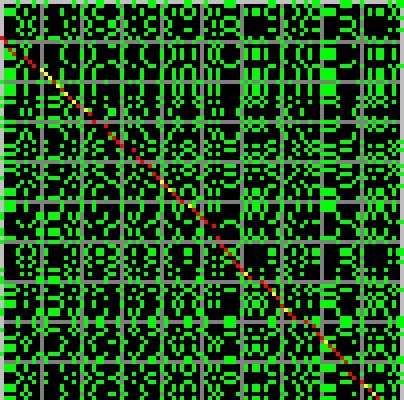
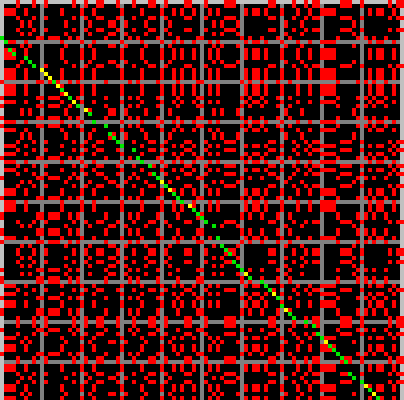
Use consistent coloring in alignment figures.

Changed region(s): [[0.0, 0.0, 1.0, 1.0]]

diff --git a/docs/ComputationalMethods.html b/docs/ComputationalMethods.html
@@ -378,44 +378,40 @@ at two unrelated locations in the two sequences.
 <p>
 The picture below shows a portion of a typical
 alignment matrix of two reads in their representation
-as a raw base sequence (not the run-length encoded representation),
-with an optimal alignment shown in red and yellow.
-(The Shasta assembler never performs such a computation, except
-when requested interactively).
+as a raw base sequence (not the run-length encoded representation)
+and a computed optimal alignment.
+This is for illustration only, as the Shasta assembler 
+never constructs such a matrix, except
+when requested interactively.
 
 <p>
 <img src=RawAlignment.png>
 
 <p>
-Here, elements of the alignment matrix that are 0 are displayed
-in yellow or black/grey:
+Here, elements of the alignment matrix are colored as follows:
 <ul>
-<li>Yellow matrix elements are matrix element that are
+<li>Red dots are alignment matrix elements that are 1 but that are not part of the
+computed optimal alignment.
+<li>Green dots are alignment matrix elements that are 1 and that are part of the
+computed optimal alignment.
+<li>Yellow matrix elements are alignment matrix elements that are
 0 but that were computed to be part of the optimal alignment 
-(as mismatching alignment positions).
-<li>Black or grey matrix elements are matrix element that are
+as mismatching alignment positions.
+<li>Black or grey matrix elements are matrix elements that are
 0 and that were not computed to be part of the optimal alignment.
+Grey is used instead of black every 10 bases to facilitate
+counting bases in the figure.
 </ul>
-
-Elements of the alignment matrix that are 1 are displayed
-in red or green:
-<ul>
-<li>Red matrix elements are matrix element that are
-1 and that were computed to be part of the optimal alignment 
-(as matching alignment positions).
-<li>Green matrix elements are matrix element that are
-1 and that were not computed to be part of the optimal alignment.
-</ul>
-The grey lines are drawn 10 markers apart from each other
-and their only purpose is to facilitate reading the picture -
-the corresponding matrix elements are 0.
 
 <p>
 On average, about 25% of the matrix elements are 1, simply
 because the alphabet has 4 symbols. 
 Because of the large fraction of 1 elements and because of the high error rate,
 it would be hard to visually locate the
-optimal alignment in this picture, if it was not highlighted using colors:
+optimal alignment in this picture, if it was not highlighted using colors.
+This is emphasized by the following figure, which represents
+the same matrix, but with all 1 elements now colored
+red and all 0 elements black.
 
 <p>
 <img src=RawAlignmentUnmarked.png>
@@ -444,9 +440,6 @@ computed by the Shasta assembler - see below for more information.
 The grey lines are drawn 10 markers apart from each other
 and their only purpose is to facilitate reading the picture -
 the corresponding matrix elements are 0.
-<b>Note that the colors in this picture are inconsistent
-with those used in the illustration of the alignment
-matrix in raw base representation above.</b>
 
 <p>
 <img id=MarkerAlignment src=MarkerAlignment.png>
